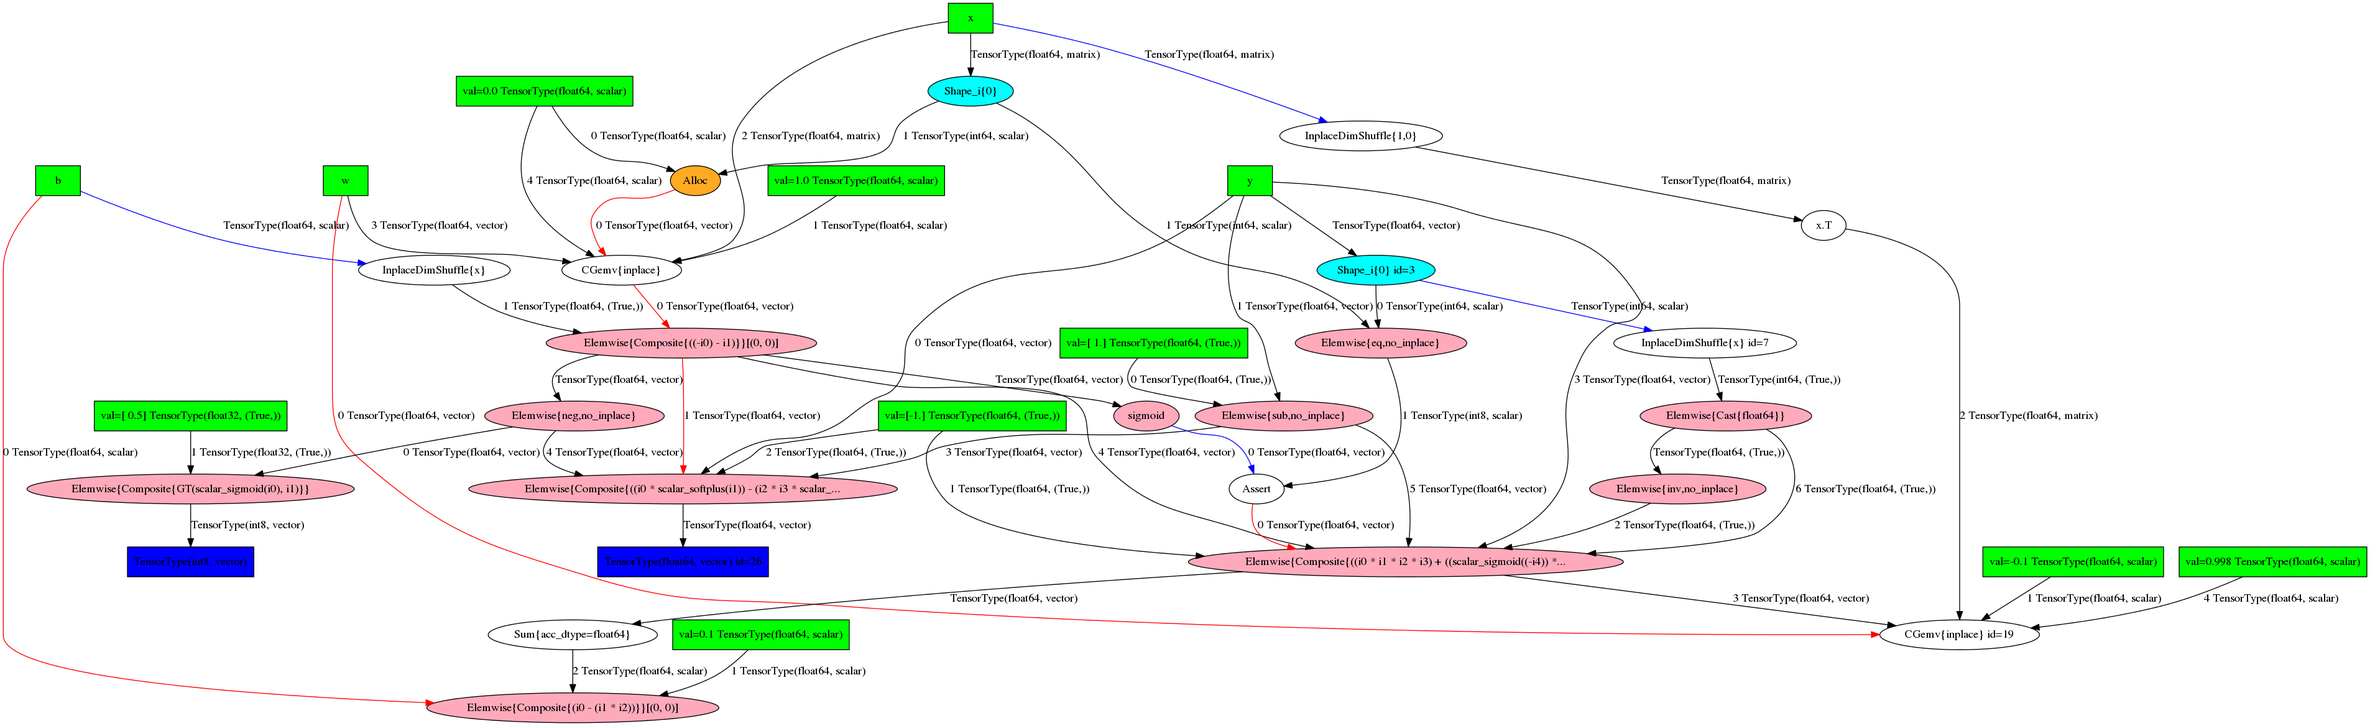
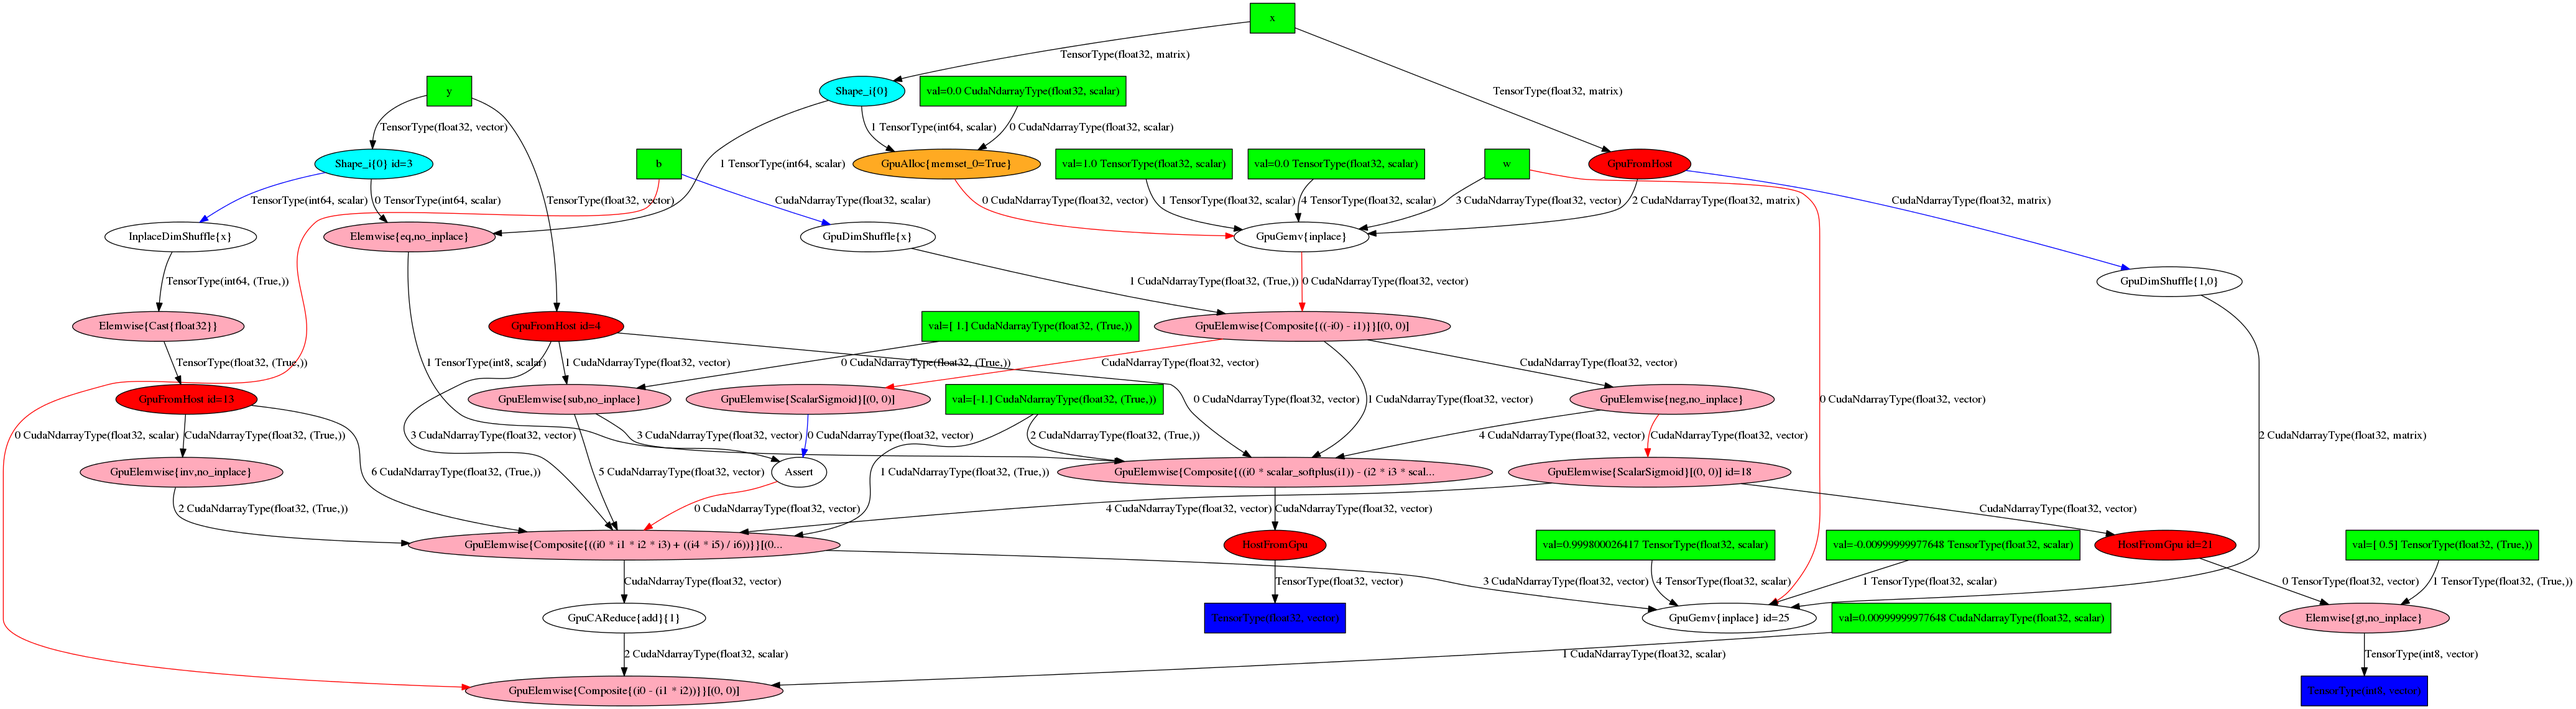
Updated logistic regression function using the GPU to process

diff --git a/examples/logistic_regression.py b/examples/logistic_regression.py
@@ -3,11 +3,13 @@
 
 #!/usr/bin/python
 
-import pydot
-import theano as th                             # This is the theano library.
-import theano.tensor as T                       # Tensor from theano.
+from __future__ import print_function
+import theano                                   # This is the theano library.
+import theano.tensor as tt                      # Tensor from theano.
 from numpy import random as rn                  # Random number generator.
+import numpy as np
 
+theano.config.floatX = 'float32'
 
 # Define the inputs.
 N = 400                                         # This is the number of input data points.
@@ -15,7 +17,8 @@ feats = 784                                     # This is the number of the feat
 
 # Generate the basic input training data set.
 # The low is 0 and high is 2 but not included.
-D = (rn.randn(N, feats), rn.randint(size=N, low=0, high=2))
+D = (rn.randn(N, feats).astype(theano.config.floatX),
+     rn.randint(size=N, low=0, high=2).astype(theano.config.floatX))
 training_steps = 10000
 
 '''
@@ -33,39 +36,55 @@ Understanding the types of variables and how to access the information.
 
 # Construct the graph.
 # Declare all the THEANO variables.
-x = T.dmatrix('x')
-y = T.vector('y')
+x = tt.matrix('x')
+y = tt.vector('y')
 
 # Initialize the weight vectors.
-w = th.shared(rn.randn(feats), name="w")
-b = th.shared(0., name="b")
+w = theano.shared(rn.randn(feats).astype(theano.config.floatX), name="w")
+b = theano.shared(np.asarray(0., dtype=theano.config.floatX), name="b")
+
+x.tag.test_value = D[0]
+y.tag.test_value = D[1]
 
 # Construct Theano expression graph
-p_1 = 1 / (1 + T.exp(-T.dot(x, w) - b))         # Probability that target = 1
+p_1 = 1 / (1 + tt.exp(-tt.dot(x, w) - b))         # Probability that target = 1
 prediction = p_1 > 0.5                          # The prediction thresholded.
-xent = -y * T.log(p_1) - (1-y) * T.log(1-p_1)   # Cross-entropy loss function
-cost = xent.mean() + 0.01 * (w ** 2).sum()      # The cost to minimize
-gw, gb = T.grad(cost, [w, b])                   # Compute the gradient of the cost
+xent = -y * tt.log(p_1) - (1-y) * tt.log(1-p_1)   # Cross-entropy loss function
+cost = tt.cast(xent.mean(), 'float32') + \
+       0.01 * (w ** 2).sum()                    # The cost to minimize
+gw, gb = tt.grad(cost, [w, b])                   # Compute the gradient of the cost
                                                 # (we shall return to this in a
                                                 # following section of this tutorial)
 
 # Compile
 # 0.1 is the learning on the gradient.
-train = th.function(
+train = theano.function(
     inputs=[x, y],
     outputs=[prediction, xent],
-    updates=((w, w - 0.1 * gw), (b, b - 0.1 * gb)))
-predict = th.function(inputs=[x], outputs=prediction)
+    updates={w: w - 0.01 * gw, b: b - 0.01 * gb},
+    name="train")
+
+predict = theano.function(inputs=[x], outputs=prediction, name="predict")
+
+if any([x.op.__class__.__name__ in ['Gemv', 'CGemv', 'Gemm', 'CGemm'] for x in
+        train.maker.fgraph.toposort()]):
+    print('Used the cpu')
+elif any([x.op.__class__.__name__ in ['GpuGemm', 'GpuGemv'] for x in
+          train.maker.fgraph.toposort()]):
+    print('Used the gpu')
+else:
+    print('ERROR, not able to tell if theano used the cpu or the gpu')
+    print(train.maker.fgraph.toposort())
 
 # Train
 for i in range(training_steps):
     pred, err = train(D[0], D[1])
 
-print "Final model:"
-print w.get_value(), b.get_value()
-print "target values for D:", D[1]
-print "prediction on D:", predict(D[0])
+# print("Final model:")
+# print(w.get_value(), b.get_value())
+print("target values for D:", D[1])
+print("prediction on D:", predict(D[0]))
 
 # Generate the training graph.
 # There is th.printing.pprint and th.printing.debugprint too.
-th.printing.pydotprint(train, outfile="graphs/train.png", var_with_name_simple=True)
+theano.printing.pydotprint(train, outfile="graphs/train.png", var_with_name_simple=True)
